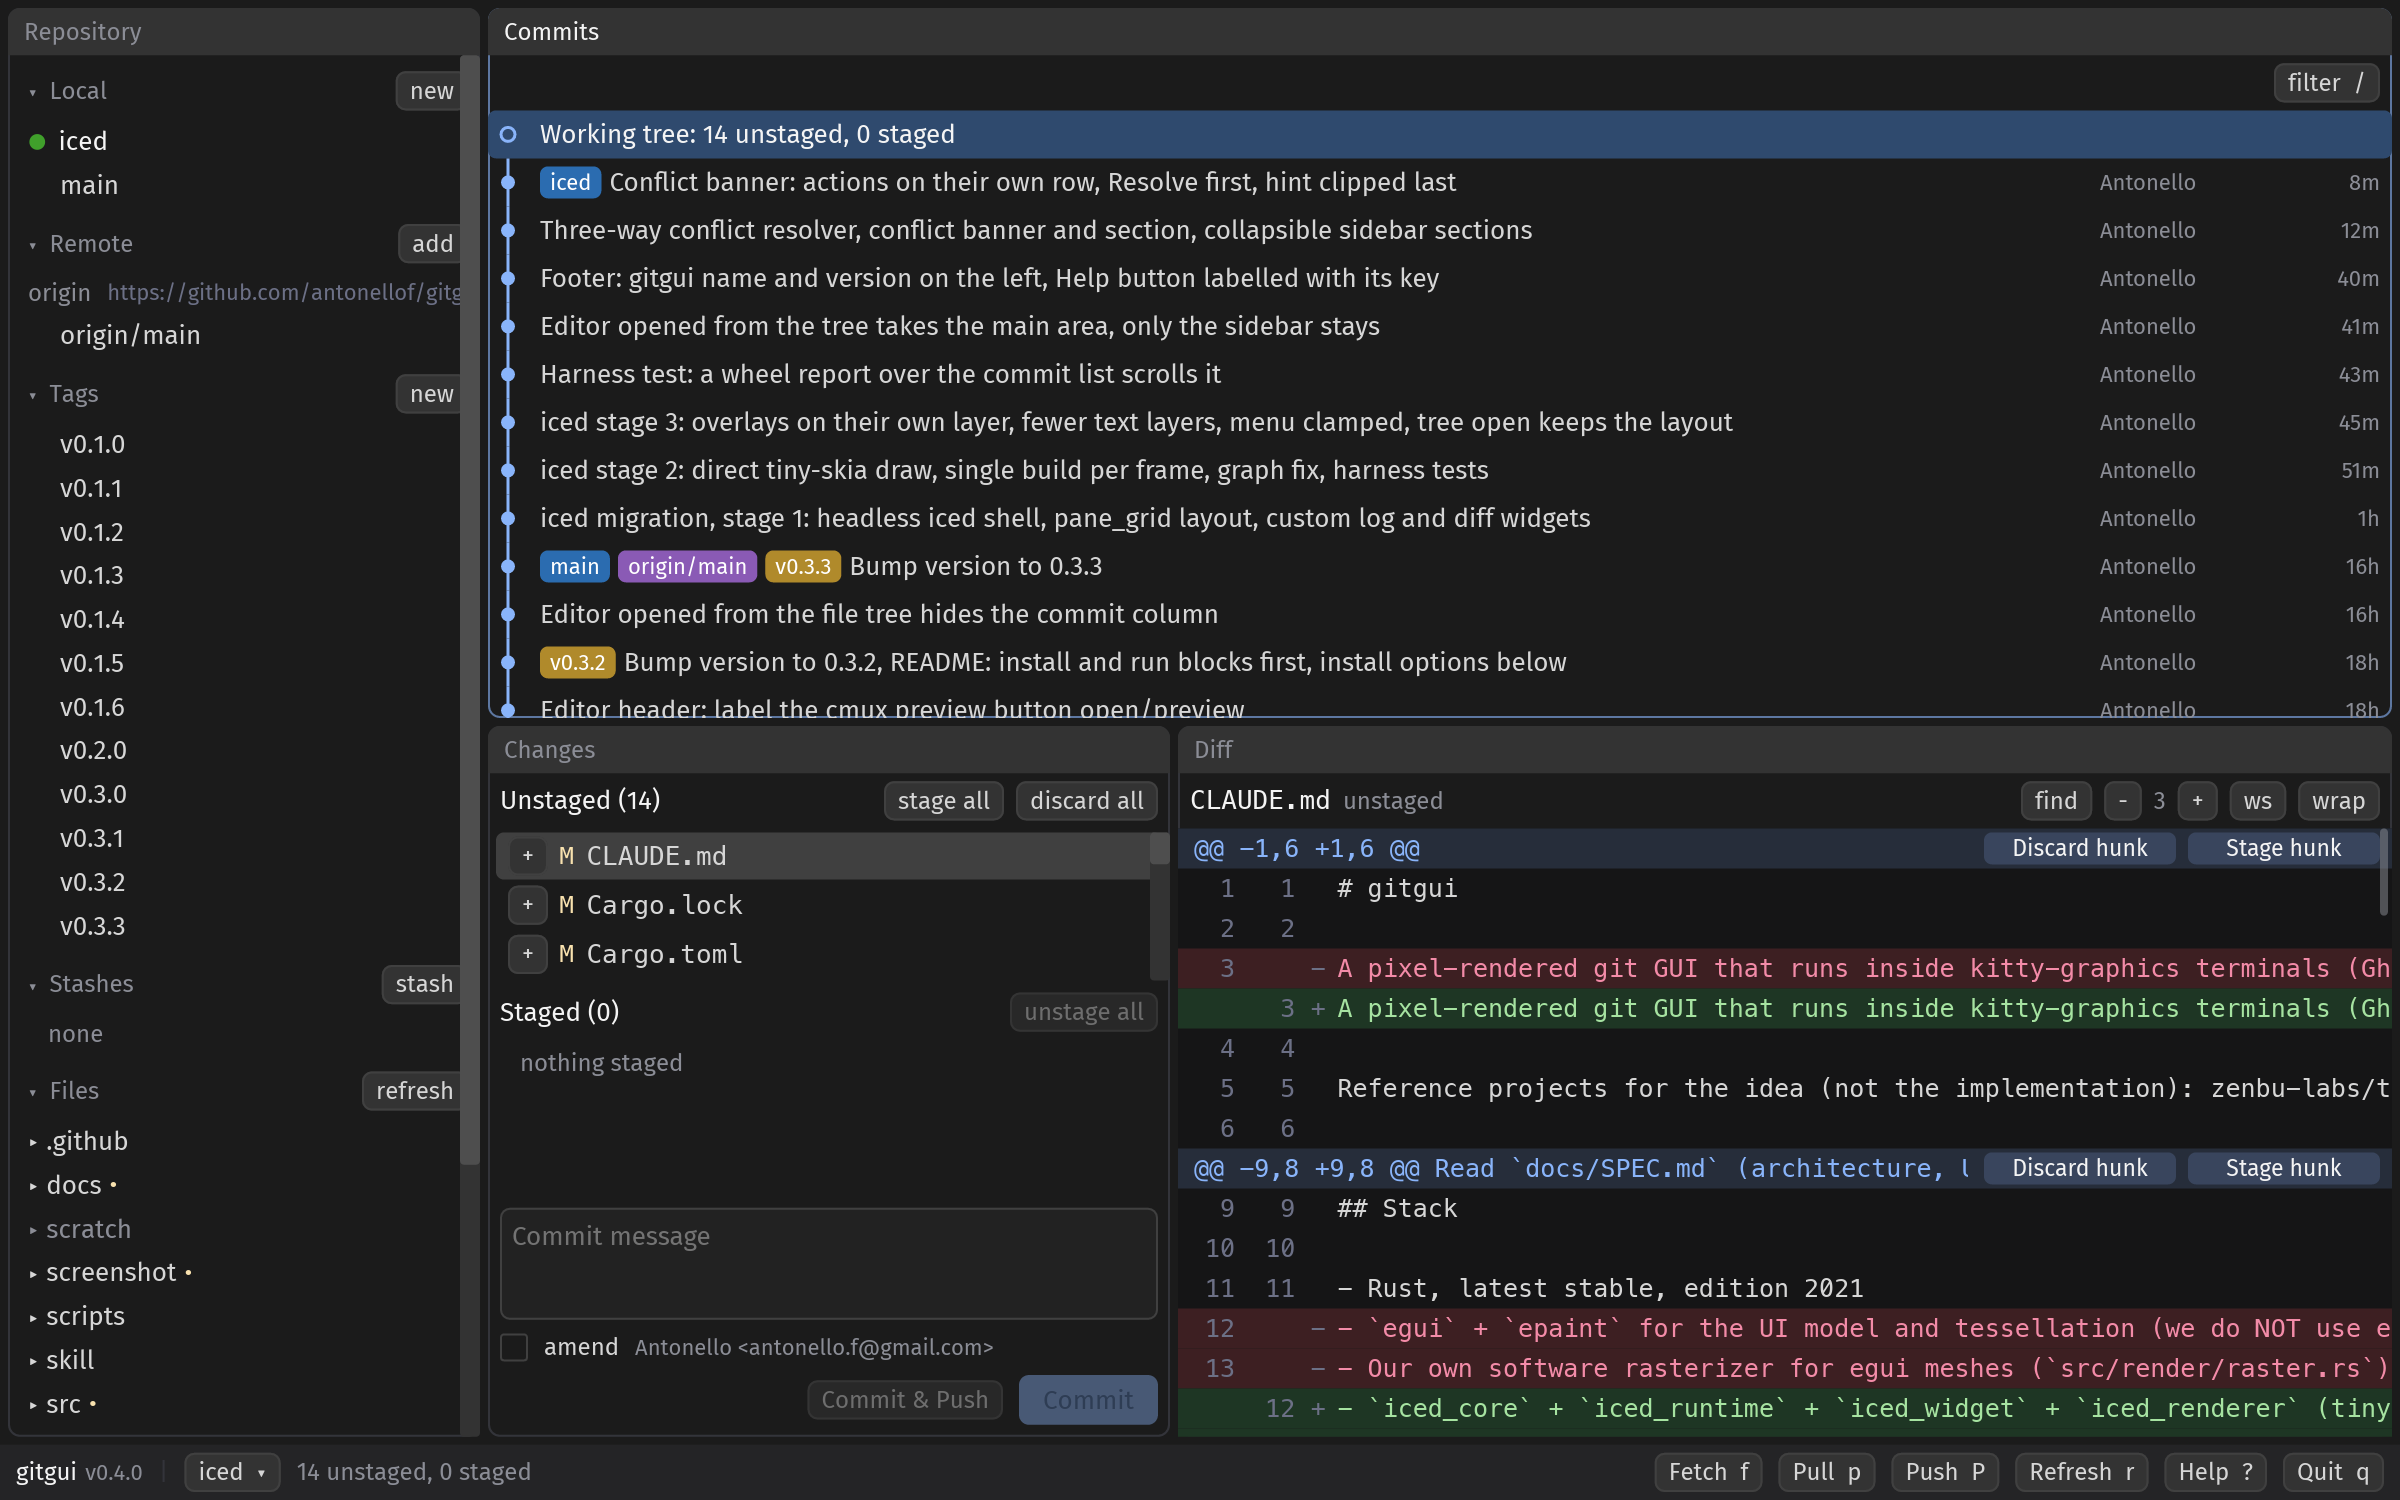
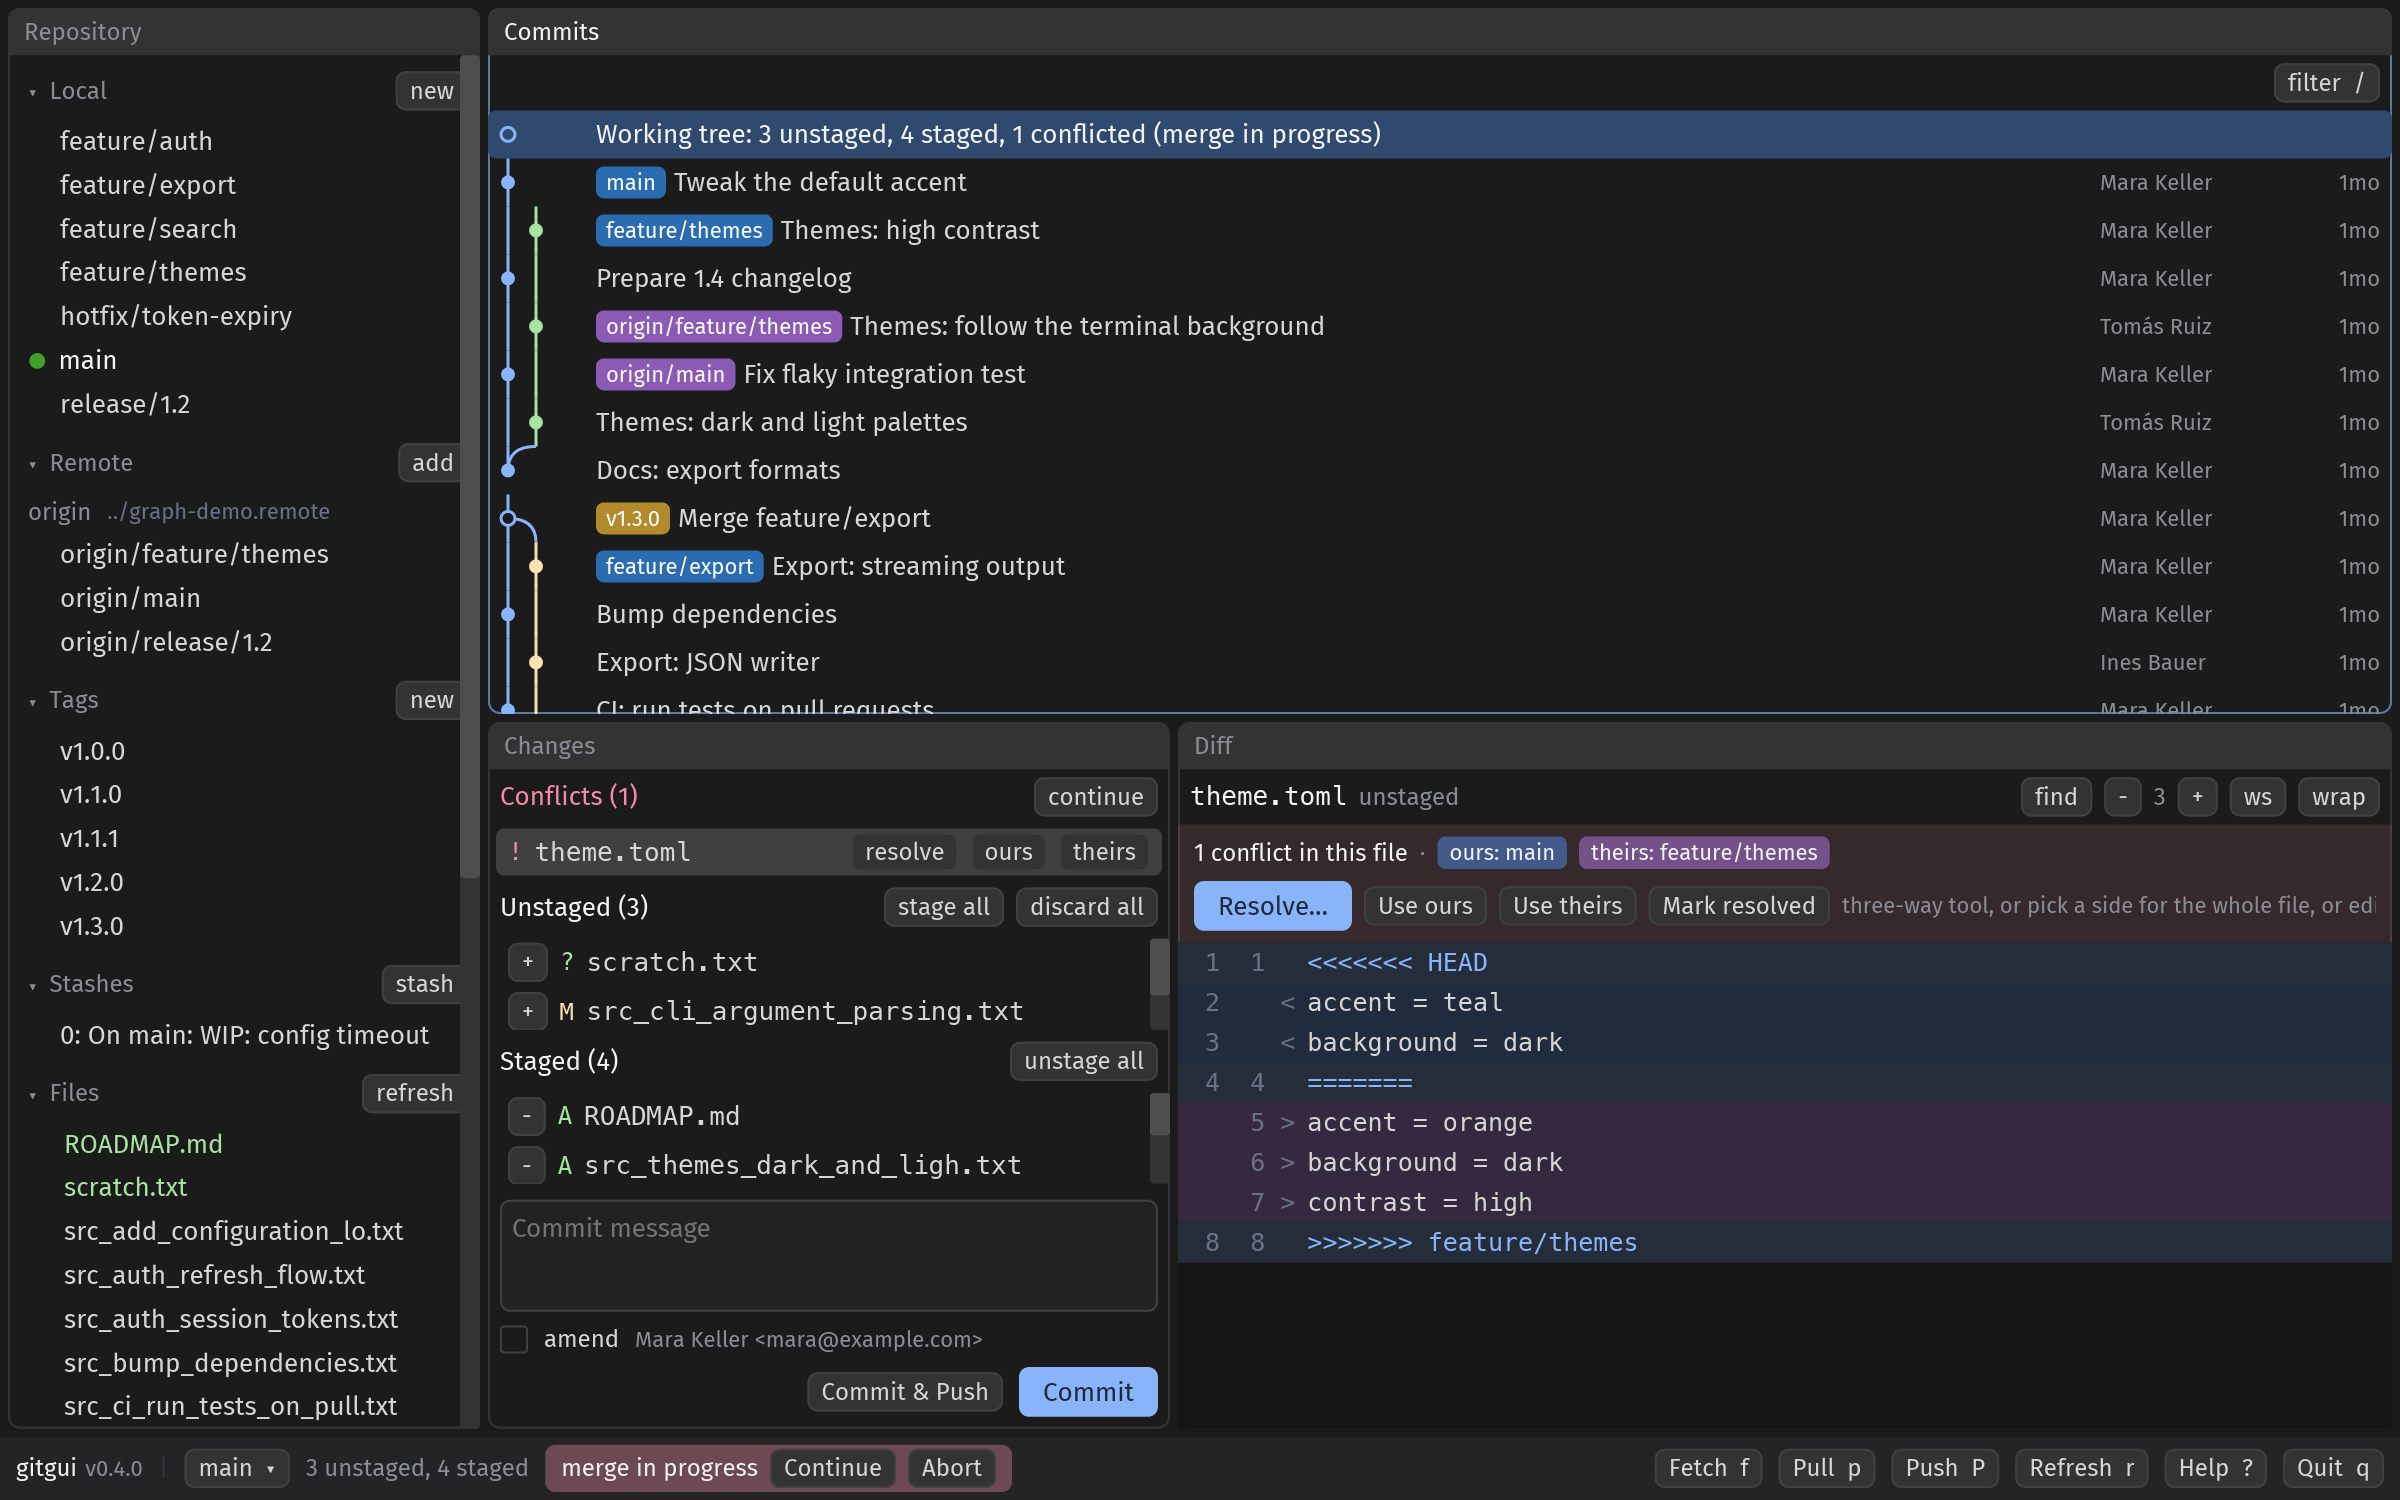
README screenshots from a demo repo with branches, tags, a stash and a conflict
scripts/graph-demo.sh builds a repository with five feature branches, merges,
four tags, a remote with three branches, a stash, staged and unstaged files
and a merge stopped on a conflict. Both README screenshots come from it.
The working tree selection now picks a conflicted file first.

diff --git a/src/ui/app.rs b/src/ui/app.rs
@@ -840,16 +840,13 @@ impl App {
 
     fn select_first_worktree_file(&mut self) {
         let s = &self.snapshot;
+        // Conflicts first: they block everything else.
         let first = s
-            .unstaged
+            .conflicted
             .first()
             .map(|f| DiffTarget::WorkdirUnstaged(f.path.clone()))
-            .or_else(|| s.staged.first().map(|f| DiffTarget::Staged(f.path.clone())))
-            .or_else(|| {
-                s.conflicted
-                    .first()
-                    .map(|f| DiffTarget::WorkdirUnstaged(f.path.clone()))
-            });
+            .or_else(|| s.unstaged.first().map(|f| DiffTarget::WorkdirUnstaged(f.path.clone())))
+            .or_else(|| s.staged.first().map(|f| DiffTarget::Staged(f.path.clone())));
         self.select_file(first);
     }
 

diff --git a/README.md b/README.md
@@ -46,6 +46,7 @@ cargo run --release -- --headless-frame /tmp/frame.png --size 1600x1000 --scale 
 GITGUI_HEADLESS_OPEN=merge cargo run --release -- --headless-frame /tmp/merge.png --repo scratch/conflict-demo
                                         same, with a dialog or the merge tool open (picker, help, menu, stash, reset, merge)
 scripts/conflict-demo.sh                a throwaway repository with three conflicted files
+scripts/graph-demo.sh                   a throwaway repository with branches, merges, tags, a remote, a stash and a conflict (the README screenshots)
 bash scripts/smoke.sh                   headless smoke test
 ```
 
